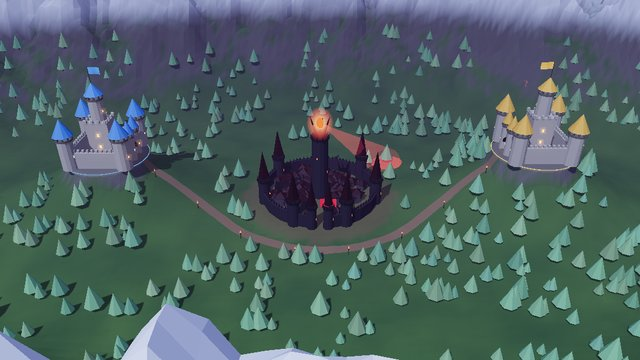
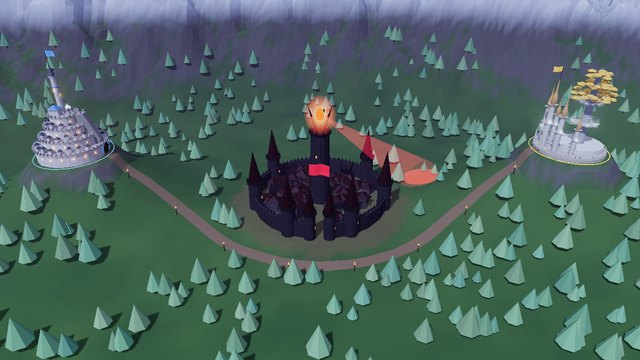
Two Generals: Middle-earth's castles in the episode, Alice the humans' white city, Bob the elves' towers (d7, r262)
Simon's d7: switch them, Alice (blue) gets the humans, and rework the details.
- world.js builds castles.js's buildHumanCastle for A and buildElfCastle for B; the old
  twin keeps (buildCastle) are gone. Same contract: gate ~9 m out, userData flag/glow.
- The white city's house roofs floated .25 above their houses: each roof now sits on its
  house's top, and the houses stand on the terrace instead of floating or sinking.
- The tier rims sat .025 under the terrace and z-fought in stripes: the rim now stands .1 proud.
- moonLight.shadow.normalBias .06 takes the shadow acne off the flat tops.
- Eve's tower needles floated .95 over their merlon crowns (tower(), "the central castle"):
  they now sit on the ring inside the merlons; her gate flag follows the needle tip down.
- lab/castles.html loses its old/new and which-side toggles, gains ?cam= for close-ups.
- vignette.jpg reshot with the new castles; README lists castles.js and the lab.

Persona: Mira Cryptographie
Session: mira-fedora-deux-generaux-115

diff --git a/deux-generaux/js/world.js b/deux-generaux/js/world.js
@@ -1,6 +1,7 @@
 // The valley: terrain, sky, the two castles, Eve's city, the road between them.
 // Everything is built from primitives in code: no model files to load.
 import * as THREE from 'three';
+import { buildHumanCastle, buildElfCastle } from './castles.js';
 
 export const CASTLE_A = new THREE.Vector3(-70, 0, 0);
 export const CASTLE_B = new THREE.Vector3(70, 0, 0);
@@ -138,7 +139,8 @@ function tower(r, h, roofColor, { roof = true, windows = 2, stone = M.stone, tri
   if (roof) {
     // spiky: a tall needle instead of a cone roof
     const rh = spiky ? h * 1.1 : h * .55, cone = new THREE.Mesh(new THREE.ConeGeometry(r * (spiky ? 1.05 : 1.35), rh, spiky ? 6 : 12), M.roof(roofColor));
-    cone.position.y = h + 1.25 + rh / 2; cone.castShadow = true; g.add(cone);
+    // on the ring's top, inside the merlons: at h + 1.25 it floated over them, sky between (r262)
+    cone.position.y = h + .3 + rh / 2; cone.castShadow = true; g.add(cone);
   }
   for (let i = 0; i < windows; i++) {
     const a = i / windows * Math.PI * 2 + .4, w = new THREE.Mesh(new THREE.BoxGeometry(.35, .7, .2), win);
@@ -167,35 +169,6 @@ export function flag(color, w = 4, h = 2.4) {
   const cloth = new THREE.Mesh(geo, mat); cloth.position.y = 6 - h / 2; cloth.castShadow = true; g.add(cloth);
   flags.push({ geo, base: Float32Array.from(geo.attributes.position.array), w, phase: Math.random() * 6 });
   g.userData.cloth = cloth;
-  return g;
-}
-
-// ---------- castles ----------
-function buildCastle(team, facing) {
-  const color = COLORS[team], g = new THREE.Group();
-  const S = 17, H = 5.5;
-  const sides = [[0, -S / 2, 0], [0, S / 2, 0], [-S / 2, 0, Math.PI / 2], [S / 2, 0, Math.PI / 2]];
-  for (const [x, z, ry] of sides) { const w = wall(S, H, 1.4); w.position.set(x, 0, z); w.rotation.y = ry; g.add(w); }
-  for (const [x, z] of [[-1, -1], [1, -1], [-1, 1], [1, 1]]) { const t = tower(2.3, 10, color); t.position.set(x * S / 2, 0, z * S / 2); g.add(t); }
-  // gate, on the wall facing +x (the group is rotated so it faces the road)
-  const gate = new THREE.Mesh(new THREE.BoxGeometry(.6, 3.6, 3.2), M.gate); gate.position.set(S / 2 + .5, 1.8, 0); g.add(gate);
-  const arch = new THREE.Mesh(new THREE.CylinderGeometry(1.6, 1.6, .62, 12, 1, false, 0, Math.PI), M.gate);
-  arch.rotation.z = Math.PI / 2; arch.rotation.y = Math.PI / 2; arch.position.set(S / 2 + .5, 3.6, 0); g.add(arch);
-  for (const z of [-2.4, 2.4]) { const gt = tower(1.4, 8, color, { windows: 1 }); gt.position.set(S / 2 + .6, 0, z); g.add(gt); }
-  // keep
-  const keep = new THREE.Mesh(new THREE.BoxGeometry(7, 13, 7), M.stone); keep.position.y = 6.5; keep.castShadow = keep.receiveShadow = true; g.add(keep);
-  merlons(g, 16, i => { const side = i >> 2, k = (i % 4) / 3 * 6 - 3; const p = [[k, -3.4], [k, 3.4], [-3.4, k], [3.4, k]][side]; return [p[0], 13.45, p[1]]; });
-  for (let i = 0; i < 8; i++) { const w = new THREE.Mesh(new THREE.BoxGeometry(.25, 1, .6), M.window); const side = i % 4, y = 5 + (i >> 2) * 4;
-    const p = [[3.52, 0], [-3.52, 0], [0, 3.52], [0, -3.52]][side]; w.position.set(p[0], y, p[1]); if (side > 1) w.rotation.y = Math.PI / 2; g.add(w); }
-  const top = tower(2.2, 7, color, { windows: 2 }); top.position.y = 13; g.add(top);
-  const f = flag(color); f.position.set(0, 13 + 7 + 4.5, 0); f.scale.setScalar(.9); g.add(f);
-  // courtyard ground
-  const yard = new THREE.Mesh(new THREE.CylinderGeometry(S * .72, S * .78, .6, 24), M.darkStone); yard.position.y = -.25; yard.receiveShadow = true; g.add(yard);
-  // team glow: a ring of light at the foot, picked up by bloom
-  const glow = new THREE.Mesh(new THREE.TorusGeometry(S * .78, .12, 6, 64), new THREE.MeshBasicMaterial({ color }));
-  glow.rotation.x = Math.PI / 2; glow.position.y = .15; g.add(glow);
-  g.rotation.y = facing;
-  g.userData = { team, flag: f, glow };
   return g;
 }
 
@@ -248,8 +221,8 @@ function buildCity() {
   const spotGeo = new THREE.CircleGeometry(BEAM.radius, 40, 0, Math.PI * 2); spotGeo.rotateX(-Math.PI / 2);
   const spot = new THREE.Mesh(spotGeo, new THREE.MeshBasicMaterial({ color: 0xff3a30, transparent: true, opacity: .45, blending: THREE.AdditiveBlending, depthWrite: false }));
   spot.userData.base = Float32Array.from(spotGeo.attributes.position.array); spot.renderOrder = 2; g.add(spot);
-  // on the needle of the west gate tower (h 7.5, needle tip at 7.5 + 1.25 + 7.5 * 1.1), flying over the gate
-  const f = flag(COLORS.e, 5, 3); f.position.set(-2.6, 16.6, R); g.add(f);
+  // on the needle of the west gate tower (h 7.5, needle tip at 7.5 + .3 + 7.5 * 1.1), flying over the gate
+  const f = flag(COLORS.e, 5, 3); f.position.set(-2.6, 15.65, R); g.add(f);
   g.position.copy(CITY);
   g.userData = { eye, fireLight, pivot, beam, spot, flag: f, spire, fall: 0, target: new THREE.Vector3() };
   return g;
@@ -384,12 +357,14 @@ export function buildWorld(scene) {
   moonLight.position.set(-50, 130, 90); moonLight.castShadow = true;
   moonLight.shadow.mapSize.set(2048, 2048);
   Object.assign(moonLight.shadow.camera, { left: -110, right: 110, top: 70, bottom: -70, near: 10, far: 400 });
-  moonLight.shadow.bias = -.0008; scene.add(moonLight);
+  // normalBias: without it the flat tops (house roofs, the white city's tier rims) wore stripes of shadow acne (r262)
+  moonLight.shadow.bias = -.0008; moonLight.shadow.normalBias = .06; scene.add(moonLight);
 
   scene.add(buildTerrain());
   const road = buildRoad(); scene.add(road.mesh);
-  const castleA = buildCastle('a', 0); castleA.position.copy(CASTLE_A); scene.add(castleA);
-  const castleB = buildCastle('b', Math.PI); castleB.position.copy(CASTLE_B); scene.add(castleB);
+  // Middle-earth's castles (d7, r262): Alice the humans' white city, Bob the elves' towers (js/castles.js)
+  const castleA = buildHumanCastle('a', 0); castleA.position.copy(CASTLE_A); scene.add(castleA);
+  const castleB = buildElfCastle('b', Math.PI); castleB.position.copy(CASTLE_B); scene.add(castleB);
   const city = buildCity(); scene.add(city);
   scene.add(buildTrees(road));
   scene.add(buildTorches(road));

diff --git a/deux-generaux/lab/castles.html b/deux-generaux/lab/castles.html
@@ -1,7 +1,7 @@
 <!doctype html>
-<!-- r192 lab: the episode's own valley (js/world.js, Eve's city and the Eye in the middle) with the two keeps swapped for the
-     prototypes of js/castles.js: humans (a white city of tiers) and elves (towers and a mallorn). Nothing here is in the episode.
-     Query: ?set=old|new  ?west=human|elf (which one is Alice's)  ?view=over|a|b|gateA|gateB|both  ?dawn=0..1   (tools/shoot.py --page deux-generaux/lab/castles.html) -->
+<!-- r192 lab, since d7 (r262) the episode's own castles: the valley of js/world.js with Alice's white city (humans) and
+     Bob's towers (elves) from js/castles.js, to look at them close up without playing the story.
+     Query: ?view=over|a|b|gateA|gateB  ?dawn=0..1  ?cam=x,y,z,tx,ty,tz   (tools/shoot.py --page deux-generaux/lab/castles.html) -->
 <html lang="en"><head><meta charset="utf-8"><meta name="viewport" content="width=device-width, initial-scale=1">
 <title>Two Generals: castles of Middle-earth (lab)</title>
 <script type="importmap">{ "imports": { "three": "../../vendor/three/three.module.min.js", "three/addons/": "../../vendor/three/addons/" } }</script>
@@ -17,8 +17,6 @@
 </style></head><body>
 <canvas id="scene"></canvas>
 <div id="ui">
-  <div><span>castles</span><button data-k="set" data-v="old">today's keeps</button><button data-k="set" data-v="new">Middle-earth</button></div>
-  <div><span>Alice (west, blue)</span><button data-k="west" data-v="human">humans</button><button data-k="west" data-v="elf">elves</button></div>
   <div><span>view</span><button data-k="view" data-v="over">valley</button><button data-k="view" data-v="a">Alice</button><button data-k="view" data-v="b">Bob</button><button data-k="view" data-v="gateA">gate A</button><button data-k="view" data-v="gateB">gate B</button></div>
   <div><span>sky</span><button data-k="dawn" data-v="0">night</button><button data-k="dawn" data-v="1">dawn</button></div>
 </div>
@@ -32,10 +30,10 @@ import { UnrealBloomPass } from 'three/addons/postprocessing/UnrealBloomPass.js'
 import { OutputPass } from 'three/addons/postprocessing/OutputPass.js';
 import { buildWorld, CASTLE_A, CASTLE_B } from '../js/world.js';
 import { SHOTS } from '../js/camera.js';
-import { buildHumanCastle, buildElfCastle } from '../js/castles.js';
 
 const q = new URLSearchParams(location.search);
-const st = { set: q.get('set') || 'new', west: q.get('west') || 'elf', view: q.get('view') || 'over', dawn: q.get('dawn') || '0' };
+let cam = q.get('cam')?.split(',').map(Number);
+const st = { view: q.get('view') || 'over', dawn: q.get('dawn') || '0' };
 
 // the renderer exactly as js/main.js sets it, so the castles are judged in the episode's own light
 const canvas = document.getElementById('scene');
@@ -66,25 +64,14 @@ const VIEWS = {
   gateB: { pos: v(40, 20, 28), target: v(CASTLE_B.x - 4, CASTLE_B.y + 6, 0) },
 };
 
-// the old keeps stay in the scene, hidden, so 'today' and 'Middle-earth' flip without a rebuild
-const made = { human: {}, elf: {} };
-const build = { human: buildHumanCastle, elf: buildElfCastle };
-function castle(kind, team) {
-  if (!made[kind][team]) {
-    const c = build[kind](team, team === 'a' ? 0 : Math.PI);
-    c.position.copy(team === 'a' ? CASTLE_A : CASTLE_B); scene.add(c); made[kind][team] = c;
-  }
-  return made[kind][team];
-}
 function apply() {
-  const fresh = st.set === 'new', east = st.west === 'elf' ? 'human' : 'elf';
-  world.castleA.visible = world.castleB.visible = !fresh;
-  for (const k of ['human', 'elf']) for (const t of ['a', 'b']) if (made[k][t]) made[k][t].visible = false;
-  if (fresh) { castle(st.west, 'a').visible = true; castle(east, 'b').visible = true; }
-  const s = VIEWS[st.view]; camera.position.copy(s.pos); controls.target.copy(s.target); controls.update();
+  const s = VIEWS[st.view]; camera.position.copy(s.pos); controls.target.copy(s.target);
+  // ?cam=x,y,z,tx,ty,tz: any close-up, for the detail fixes of r262; the first view only, the buttons then fly as before
+  if (cam?.length === 6) { camera.position.set(cam[0], cam[1], cam[2]); controls.target.set(cam[3], cam[4], cam[5]); cam = null; }
+  controls.update();
   world.setDawn(+st.dawn);
   for (const b of document.querySelectorAll('#ui button')) b.classList.toggle('on', st[b.dataset.k] === b.dataset.v);
-  document.getElementById('who').textContent = fresh ? `Alice (west): ${st.west === 'elf' ? 'elves' : 'humans'} · Bob (east): ${east === 'elf' ? 'elves' : 'humans'} · Eve: the black city` : 'today\'s twin keeps';
+  document.getElementById('who').textContent = 'Alice (west): humans · Bob (east): elves · Eve: the black city';
 }
 document.getElementById('ui').addEventListener('click', e => {
   const b = e.target.closest('button'); if (!b) return;

diff --git a/deux-generaux/js/castles.js b/deux-generaux/js/castles.js
@@ -1,10 +1,10 @@
-// r192 PROTOTYPE, not wired into the episode: two castles in Middle-earth's manner, tried in
-// lab/castles.html in place of buildCastle()'s twin keeps. Humans: a white city of tiers on its
-// hill, a rock spur splitting it, a citadel tower and a white tree on top. Elves: no walls,
-// slender towers with leaf spires, arches between them, a golden mallorn in the middle.
-// Same contract as buildCastle(team, facing): the gate faces local +x, about 9 m out, where the
-// road ends; userData { team, flag, glow }; the team colour sits on the flag, the roofs or spires
-// and the ring of light at the foot, so the story's colour code (Alice blue, Bob gold) holds.
+// Episode 1's two castles in Middle-earth's manner (r192 prototype, wired by d7/r262: Alice gets the
+// humans, Bob the elves). Humans: a white city of tiers on its hill, a rock spur splitting it, a
+// citadel tower and a white tree on top. Elves: no walls, slender towers with leaf spires, arches
+// between them, a golden mallorn in the middle. Tried close up in lab/castles.html.
+// Contract (the old keeps'): the gate faces local +x, about 9 m out, where the road ends;
+// userData { team, flag, glow }; the team colour sits on the flag, the roofs or spires and the ring
+// of light at the foot, so the story's colour code (Alice blue, Bob gold) holds.
 import * as THREE from 'three';
 import { COLORS, M, flag } from './world.js';
 
@@ -41,7 +41,8 @@ export function buildHumanCastle(team, facing) {
   TIERS.forEach(({ r, top }, i) => {
     const base = i ? TIERS[i - 1].top : -4;
     add(g, new THREE.CylinderGeometry(r, r * 1.02, top - base, 36), WHITE, 0, (top + base) / 2, 0);
-    add(g, new THREE.CylinderGeometry(r * 1.03, r * 1.03, .35, 36), WHITE_TRIM, 0, top - .2, 0);
+    // the rim stands .1 proud of the terrace: .025 below it, the two faces fought for depth in stripes (r262)
+    add(g, new THREE.CylinderGeometry(r * 1.03, r * 1.03, .4, 36), WHITE_TRIM, 0, top - .1, 0);
     const n = Math.round(r * 5.4);
     many(g, new THREE.BoxGeometry(.5, .7, .4), WHITE_TRIM, n, k => { const a = k / n * Math.PI * 2; return [Math.cos(a) * r * 1.02, top + .3, Math.sin(a) * r * 1.02, -a]; });
     // lit windows on the wall face, none behind the spur
@@ -51,8 +52,10 @@ export function buildHumanCastle(team, facing) {
     if (i < TIERS.length - 1) {
       const rr = (r + TIERS[i + 1].r) / 2, h = 22 - i * 5, sp = [];
       for (let k = 0; k < h; k++) { const a = k / h * Math.PI * 2 + i * .4; if (Math.abs(Math.atan2(Math.sin(a), Math.cos(a))) > .32) sp.push(a); }
-      many(g, new THREE.BoxGeometry(1, 1.1, .9), WHITE, sp.length, k => [Math.cos(sp[k]) * rr, top + .55, Math.sin(sp[k]) * rr, -sp[k], 1, .8 + (k % 3) * .25, 1]);
-      many(g, new THREE.ConeGeometry(.78, .7, 4), SLATE, sp.length, k => [Math.cos(sp[k]) * rr, top + 1.1 + (.8 + (k % 3) * .25) * 1.1 / 2 + .05, Math.sin(sp[k]) * rr, -sp[k] + Math.PI / 4]);
+      // each roof's base sits on its house's top face, a hair lower so no gap shows (r262: they floated .25 above)
+      const hh = k => 1.1 * (.8 + (k % 3) * .25);
+      many(g, new THREE.BoxGeometry(1, 1.1, .9), WHITE, sp.length, k => [Math.cos(sp[k]) * rr, top + hh(k) / 2, Math.sin(sp[k]) * rr, -sp[k], 1, hh(k) / 1.1, 1]);
+      many(g, new THREE.ConeGeometry(.78, .7, 4), SLATE, sp.length, k => [Math.cos(sp[k]) * rr, top + hh(k) + .35 - .02, Math.sin(sp[k]) * rr, -sp[k] + Math.PI / 4]);
     }
   });
   // the spur: a prow of rock from the top tier down to the gate, splitting the tiers

diff --git a/README.md b/README.md
@@ -342,6 +342,8 @@ deux-generaux/      l'épisode 1 :
   css/style.css
   js/main.js          rendu, bloom, boucle, modes
   js/world.js         terrain, châteaux, ville d'Eve, route, ciel, aube
+  js/castles.js       les deux châteaux de la Terre du Milieu : la cité blanche des humains (Alice), les tours des elfes (Bob)
+  lab/castles.html    les mêmes de près, sans l'histoire (?view=, ?cam=x,y,z,tx,ty,tz)
   js/camera.js        plans nommés, vols, poursuite d'un messager
   js/messenger.js     un cavalier : livré ou capturé (le faux cavalier refusé au HMAC y reste pour l'épisode 1.3)
   js/sim.js           le protocole : numéros de message, qui sait quoi, l'aube
